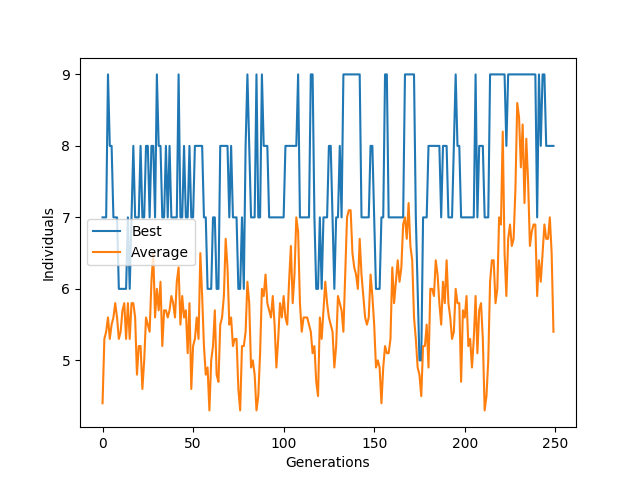
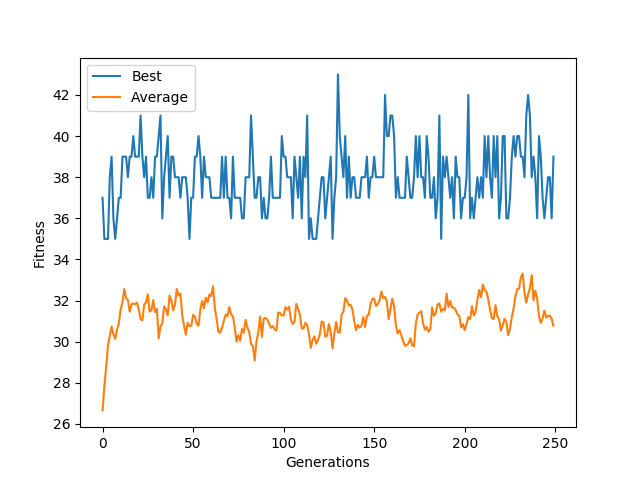
need the graphic pattern

diff --git a/OCEV/main.py b/OCEV/main.py
@@ -40,6 +40,8 @@ def main():
     objective = fit.paresAlternados(initPop,var.pop_size,var.d_size)
   if var.problem == 3:
     objective = fit.maxFuncAlg(initPop, var.pop_size, var.d_size)
+  if var.problem == 4:
+    objective = fit.radio(initPop, var.pop_size, var.d_size)
 
   while var.generations:
     if var.elitism:
@@ -92,10 +94,7 @@ def main():
 
     newPopu = newPop(newGen,var.pop_size,var.d_size)
     if var.elitism:
-      if type(var.cod) is bool :
-        randIndex = ns.getWorst(newGen,var.pop_size,var.d_size)
-      else:
-        randIndex = 0
+      randIndex = 0
       newPopu[randIndex] = elected
 
     if var.problem == 1:
@@ -104,7 +103,8 @@ def main():
       objective = fit.paresAlternados(newPopu,var.pop_size,var.d_size)
     if var.problem == 3:
       objective = fit.maxFuncAlg(newPopu, var.pop_size, var.d_size)
-
+    if var.problem == 4:
+      objective = fit.radio(newPopu, var.pop_size, var.d_size)
 
     bestFit.append(pp.getBest(objective,var.pop_size,var.d_size))
     averageFit.append(pp.averageInd(objective,var.pop_size,var.d_size))
@@ -118,14 +118,14 @@ def main():
   plt.plot(bestFit,label = 'Best')
   plt.plot(averageFit, label = 'Average')
   plt.legend()
-  plt.ylabel('Individuals')
+  plt.ylabel('Fitness')
   plt.xlabel('Generations')
   plt.savefig("best_average.png")
 
   plt.clf()
   plt.plot(divers,label = 'Diversity')
   plt.legend()
-  plt.ylabel('Individuals')
+  plt.ylabel('Diversity')
   plt.xlabel('Generations')
   plt.savefig("diversity.png")
   print(best)

diff --git a/OCEV/variaveis.py b/OCEV/variaveis.py
@@ -3,37 +3,38 @@ import math as mt
 
 generations = 250
 k = 2
-pop_size = 10
-d_size = 10
-bounds = [-10,10]
+pop_size = 50
+d_size = 50
+bounds = [-50,50]
 
-elitism = True
-# elitism = False
+# elitism = True
+elitism = False
 
-# 1 = Roullette, 2 = Tournament 
-selection = 1
-# selection = 2
+# 1 = Roullette, 2 = Tournament
+# selection = 1
+selection = 2
 
-# 1 = bitsAlternados, 2 = Pares Alternados, 3 = max x^2
-# problem = 1
-problem = 2
-# problem = 3 
+# 1 = bitsAlternados, 2 = Pares Alternados, 3 = max x^2, 4 = Radio
+problem = 1
+# problem = 2
+# problem = 3
+# problem = 4
 
 # 1 = onePoint; 2 = Uniform; 3 = BLX; 4 = Average; 5 = PLX
-# cover = 1
+cover = 1
 # cover = 2
 # cover = 3
 # cover = 4
-cover = 5
+# cover = 5
 
 # 1 = bitFlip; 2 = randMutation; 3 = deltaMutation; 4 = gaussianMutation; 5 = swapPositions
-# mutar = 1
+mutar = 1
 # mutar = 2
 # mutar = 3
 # mutar = 4
-mutar = 5
+# mutar = 5
 
 
-cod = 0
+# cod = 0
 # cod = 0.0
-# cod = False
+cod = False

diff --git a/OCEV/fitness.py b/OCEV/fitness.py
@@ -62,14 +62,24 @@ def radio(matriz,pop,d):
   for i in range(pop):
     for j in range(d):
       submat1.append(matriz[i][j])
-  for i in range(pop):
-      submat2.append(submat1[:cut])
-      submat3.append(submat1[cut:])
-      str1 = ''.join(str(e) for e in submat2)
-      str2 = ''.join(str(e) for e in submat3)
-      convst = int(str1,2)
-      convlx = int(str2,2)
-  pass
+    submat2 = submat1[:cut]
+    submat3 = submat1[cut:]
+    str1 = ''.join(str(e) for e in submat2)
+    str2 = ''.join(str(e) for e in submat3)
+    new = int(str2,2)
+    new2 = int(str1,2)
+    max_bit = 2 ** 5 - 1
+    convst = (0.0+(24.0 / max_bit)) * new2 #
+    convlx = (0.0+(16.0 / max_bit)) * new
+    fit = ((30.0*convst + 40.0*convlx)/1360.0) - max(0.0,(convst + 2.0 * convlx - 40.0)/16.0)
+    matriz[i].append(fit)
+    submat1 = []
+    submat2 = []
+    submat3 = []
+    fit = 0.0
+  return matriz
+
+
 
 
 def pattern(matriz,pop,d):

diff --git a/OCEV/crossover.py b/OCEV/crossover.py
@@ -30,7 +30,7 @@ def uniformCrossover(matriz,pop,d,dad,mom):
 
 def onePointCrossover(matriz,pop,d,dad,mom):
   cut = random.randint(0,pop-1)
-  cut = random.randint(1,pop-1)    
+  cut = random.randint(1,pop-1)
   head1 = matriz[dad][:cut]
   head2 = matriz[mom][:cut]
   tail1 = matriz[dad][cut:]
@@ -77,7 +77,6 @@ def pmxPerm(matriz,pop,d,dad,mom):
   for i in range(d):
     submatDad.append(matriz[dad][i])
     submatMom.append(matriz[mom][i]) 
-
   size = len(submatMom)
   points = random.sample(range(size), 2)
   x,y = min(points), max(points)

diff --git a/OCEV/plotPram.py b/OCEV/plotPram.py
@@ -62,11 +62,11 @@ def diversityMeasure(matriz,pop,d):
       for d in range(1,d,1):
         aux1 += mt.fabs(matriz[a][d] - matriz[b][d])**2
       aux1 = copy.copy(mt.sqrt(aux1))
-      print(d)
+    #   print(d)
       aux1 = copy.copy(aux1/d)
       if (b == (a+1) or aux2 > aux1):
         aux2 = copy.copy(aux1)
     diversity += mt.log1p(aux2)
   if m_nmdf < diversity:
     m_nmdf = diversity
-  return diversity/m_nmdf 
+  return diversity/m_nmdf
